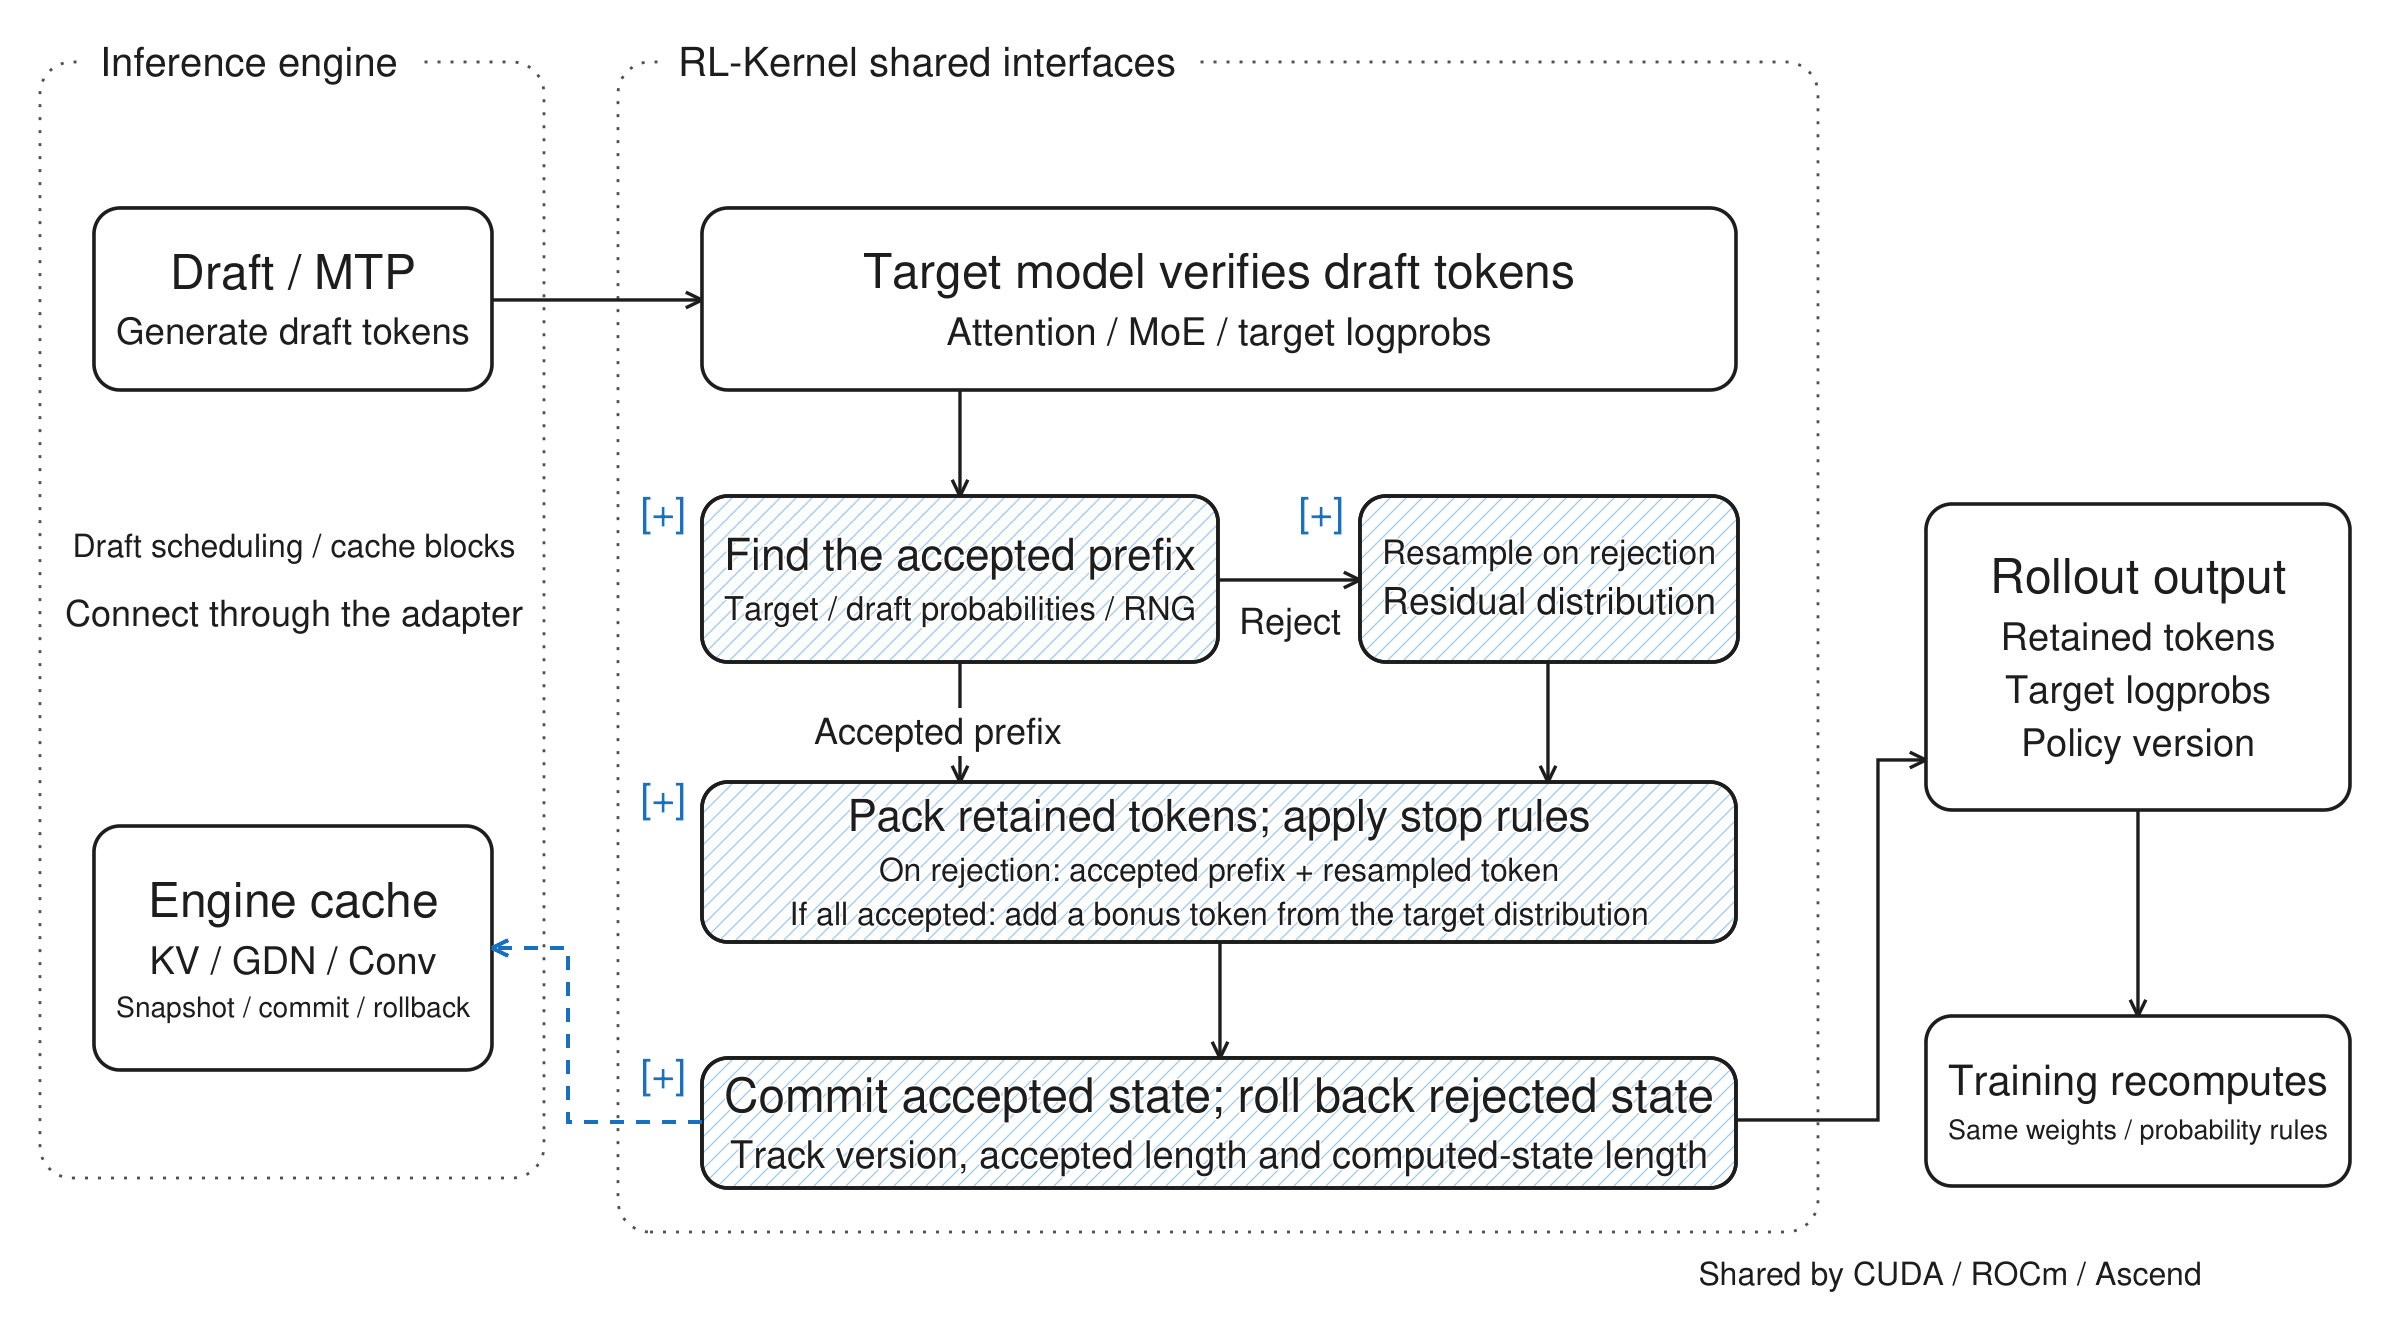
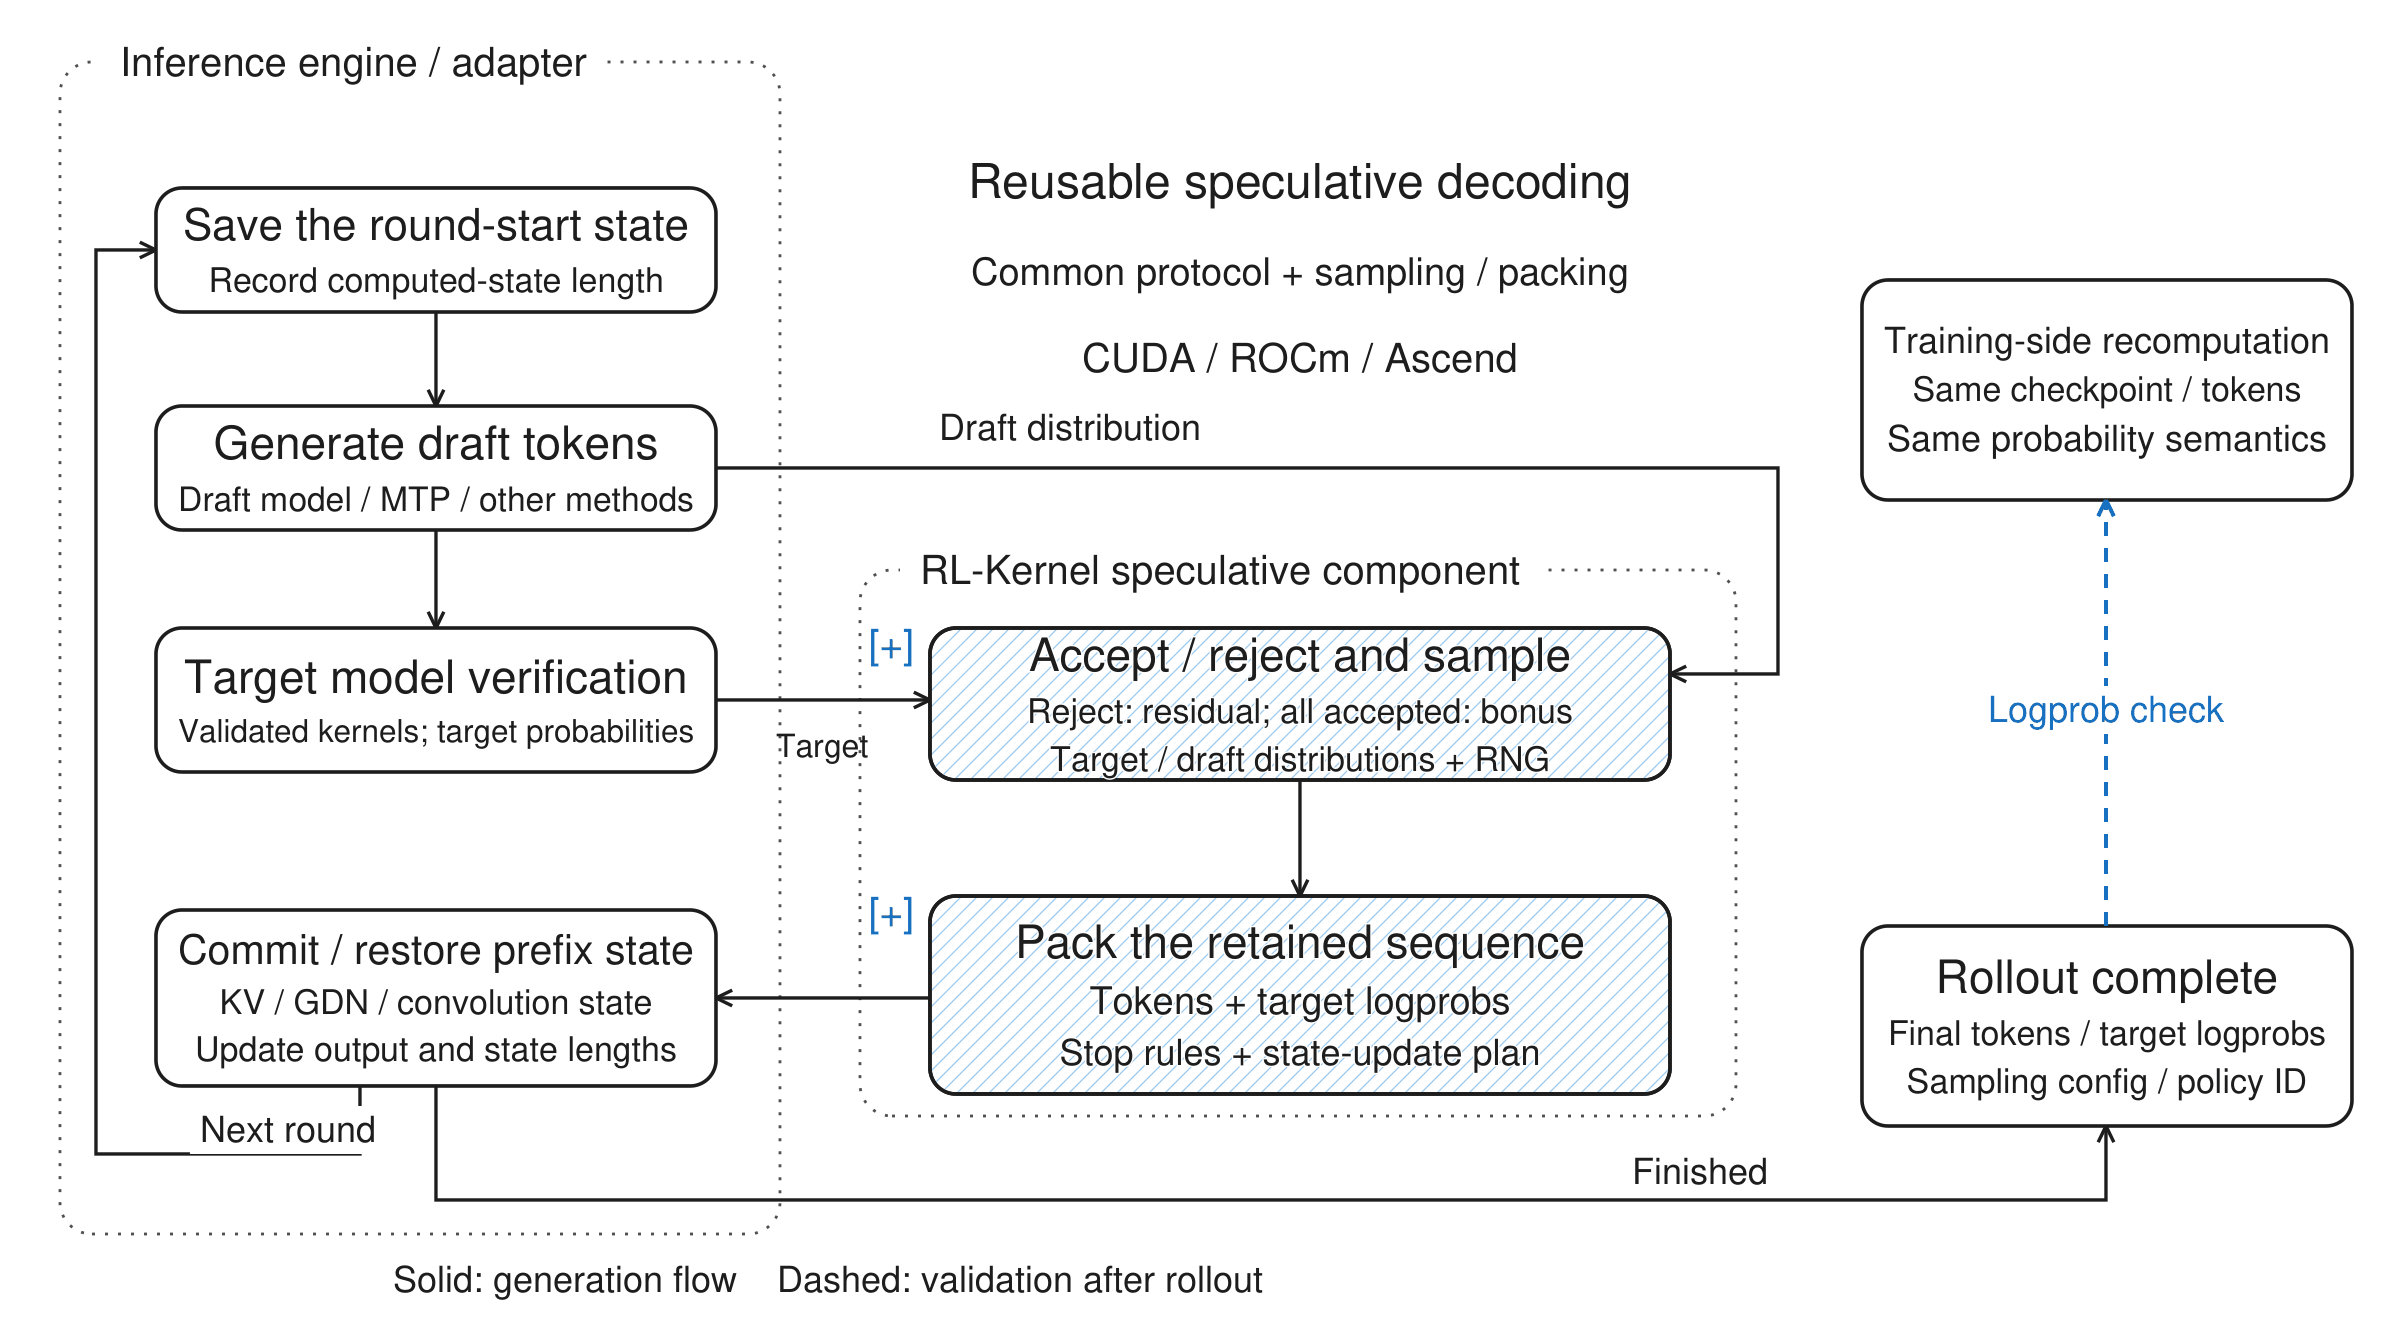
docs: clarify reusable speculative decoding and rollout validation

diff --git a/docs/roadmaps/assets/issue-563/render.py b/docs/roadmaps/assets/issue-563/render.py
@@ -122,30 +122,60 @@ def dispatcher(f):
     f.label(186,550,'No measurements: use a valid default',16)
     f.label(186,580,'and mark it as untuned',18)
 
+def speculative_component_figure(f, lang='cn'):
+    en = lang == 'en'
+    def t(cn, eng): return eng if en else cn
+    f.group(30,31,360,586,t('推理引擎 / adapter','Inference engine / adapter'))
+    f.group(430,285,438,273,t('RL-Kernel 投机解码组件','RL-Kernel speculative component'))
+    f.label(650,91,t('抽出共用的投机解码逻辑','Reusable speculative decoding'),24)
+    f.label(650,136,t('共用协议 + sampling / packing','Common protocol + sampling / packing'),19)
+    f.label(650,179,'CUDA / ROCm / Ascend',20)
+
+    f.node(78,94,280,62,[
+        (t('保存本轮前缀状态','Save the round-start state'),22,False),
+        (t('记录已计算状态长度','Record computed-state length'),17,False)])
+    f.node(78,203,280,62,[
+        (t('生成草稿','Generate draft tokens'),23,False),
+        (t('Draft model / MTP 等','Draft model / MTP / other methods'),17,False)])
+    f.node(78,314,280,72,[
+        (t('目标模型验证','Target model verification'),23,False),
+        (t('运行已验证算子，得到目标概率','Validated kernels; target probabilities'),17,False)])
+    f.node(465,314,370,76,[
+        (t('接受 / 拒绝与补充采样','Accept / reject and sample'),23,False),
+        (t('拒绝：残差采样；全接受：bonus','Reject: residual; all accepted: bonus'),17,False),
+        (t('目标 / 草稿分布 + 显式 RNG','Target / draft distributions + RNG'),17,False)],True)
+    f.node(465,448,370,99,[
+        (t('整理保留序列','Pack the retained sequence'),23,False),
+        (t('Tokens + 目标 logprob','Tokens + target logprobs'),19,False),
+        (t('停止条件 + 状态更新要求','Stop rules + state-update plan'),18,False)],True)
+    f.node(78,455,280,88,[
+        (t('提交 / 恢复保留前缀状态','Commit / restore prefix state'),22,False),
+        (t('KV / GDN / 卷积状态','KV / GDN / convolution state'),17,False),
+        (t('更新本轮输出与状态长度','Update output and state lengths'),17,False)])
+    f.node(931,463,245,100,[
+        (t('Rollout 完成','Rollout complete'),23,False),
+        (t('最终 tokens / 目标 logprob','Final tokens / target logprobs'),17,False),
+        (t('采样配置 / 策略标识','Sampling config / policy ID'),17,False)])
+    f.node(931,140,245,110,[
+        (t('训练端独立重算','Training-side recomputation'),22,False),
+        (t('相同 checkpoint / tokens','Same checkpoint / tokens'),17,False),
+        (t('相同概率定义','Same probability semantics'),18,False)])
+
+    f.arrow([(218,156),(218,203)])
+    f.arrow([(218,265),(218,314)])
+    f.arrow([(358,234),(889,234),(889,337),(835,337)],label=t('草稿分布','Draft distribution'),at=(535,214))
+    f.arrow([(358,350),(465,350)])
+    f.label(411,373,t('目标分布','Target'),16)
+    f.arrow([(650,390),(650,448)])
+    f.arrow([(465,499),(358,499)])
+    f.arrow([(180,543),(180,577),(48,577),(48,125),(78,125)],label=t('继续下一轮','Next round'),at=(144,565))
+    f.arrow([(218,543),(218,600),(1053,600),(1053,563)],label=t('达到停止条件','Finished'),at=(850,586))
+    f.arrow([(1053,463),(1053,250)],blue=True,dash=True,label=t('logprob 校验','Logprob check'),at=(1053,355))
+    f.label(414,640,t('实线：生成流程    虚线：完成后的校验','Solid: generation flow    Dashed: validation after rollout'),18)
+
+
 def speculative(f):
-    f.group(20,31,252,558,'Inference engine')
-    f.group(309,31,600,585,'RL-Kernel shared interfaces')
-    f.node(47,104,199,91,['Draft / MTP','Generate draft tokens'])
-    f.node(351,104,517,91,['Target model verifies draft tokens','Attention / MoE / target logprobs'])
-    f.node(351,248,258,83,['Find the accepted prefix','Target / draft probabilities / RNG'],True)
-    f.node(680,248,189,83,['Resample on rejection','Residual distribution'],True)
-    f.node(351,391,517,80,[('Pack retained tokens; apply stop rules',22,False),('On rejection: accepted prefix + resampled token',16,False),('If all accepted: add a bonus token from the target distribution',16,False)],True)
-    f.node(351,529,517,65,['Commit accepted state; roll back rejected state','Track version, accepted length and computed-state length'],True)
-    f.node(47,413,199,122,['Engine cache','KV / GDN / Conv','Snapshot / commit / rollback'])
-    f.node(963,252,212,153,['Rollout output','Retained tokens','Target logprobs','Policy version'])
-    f.node(963,508,212,85,['Training recomputes','Same weights / probability rules'])
-    f.arrow([(246,150),(351,150)])
-    f.arrow([(480,195),(480,248)])
-    f.arrow([(609,290),(680,290)],label='Reject',at=(645,311))
-    f.arrow([(480,331),(480,391)],label='Accepted prefix',at=(469,366))
-    f.arrow([(774,331),(774,391)])
-    f.arrow([(610,471),(610,529)])
-    f.arrow([(351,561),(284,561),(284,474),(246,474)],blue=True,dash=True)
-    f.arrow([(868,560),(939,560),(939,380),(963,380)])
-    f.arrow([(1069,405),(1069,508)])
-    f.label(147,273,'Draft scheduling / cache blocks',16)
-    f.label(147,307,'Connect through the adapter',18)
-    f.label(975,637,'Shared by CUDA / ROCm / Ascend',16)
+    speculative_component_figure(f, 'en')
 
 def pd_contract_figure(f, lang='cn'):
     cn = lang == 'cn'

diff --git a/docs/roadmaps/assets/issue-563/README.md b/docs/roadmaps/assets/issue-563/README.md
@@ -12,7 +12,7 @@ Install `reportlab`, `pymupdf` and `Pillow`, then run `python render.py`. It wri
 | --- | --- |
 | architecture.png | New and extended RL-Kernel code, including verl integration |
 | dispatcher.png | Hardware-aware kernel selection |
-| speculative.png | Shared speculative-decoding interfaces |
+| speculative.png | Reusable speculative component, engine loop, and logprob validation |
 | pd-consistency.png | Prefill/Decode handoff and training comparison |
 | pd-topology.png | Prefill/Decode expert-parallel placement |
 | pd-combine.png | Fixed-slot MoE combine and FP32 reduction tree |
@@ -22,3 +22,5 @@ The top-k of eight and the device/expert counts are illustrative. Detailed assum
 The architecture diagram follows PR #497. It uses the vime integration present in v0.1.0 as a reference: training initialization and logprob-provider hooks, plus the vLLM rollout plugin. The vime-to-verl dotted arrow denotes reuse of the integration approach, not a runtime dependency. Proposed common-code extraction is described in the issue.
 
 The P/D handoff diagram separates the L1 framework contract from the L2 operator contract. The receiver checks request/state compatibility and the registered contract before continuing generation. Contract references may be transmitted as IDs, versions or hashes; this does not replace operator and execution-plan validation.
+
+The speculative-decoding diagram separates the reusable RL-Kernel component from engine model execution and cache operations. It includes the round-start snapshot, generation loop, and a separate post-rollout logprob validation branch. Sampling rules, recurrent-state recovery, and performance/memory tradeoffs are specified in the issue.
